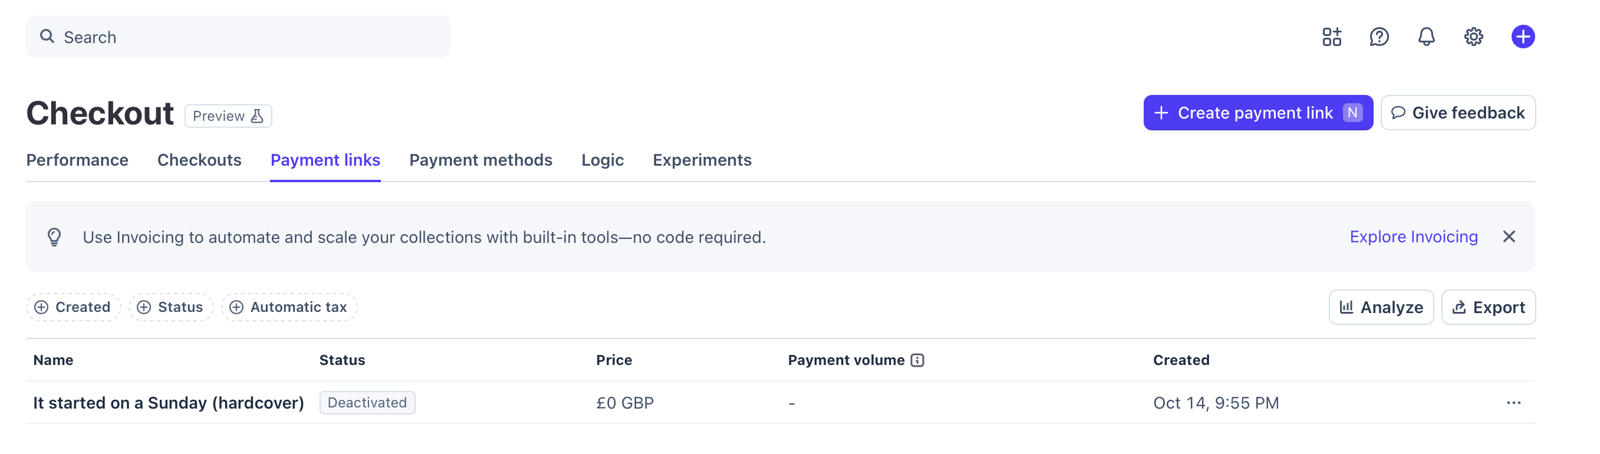
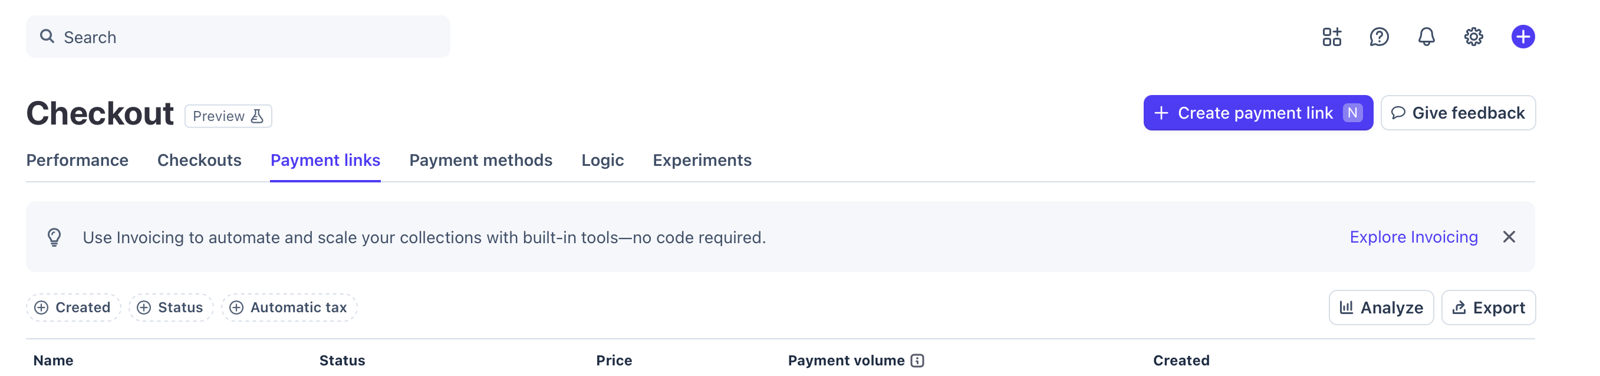
Guide: fixes from a beginner walkthrough (terms page without a website, Route B spine, stop manual orders after go-live, opening the code file, test-mode product, API version, glossary, VAT figure, PAGE_COUNT, captions; Stripe screenshot cropped above the link row)
Claude-Session: https://claude.ai/code/session_019XLMKsAezSpiud541PPbqQ

diff --git a/site/guides/sell-your-photo-book/index.html b/site/guides/sell-your-photo-book/index.html
@@ -387,8 +387,21 @@ details.menu { display: none; }
 </table>
 <p>Stripe asks for ID and your bank details before it pays you out. In the UK you can sign up as an individual (sole trader). Allow a day for checks.</p>
 
+<h3>Words you'll meet</h3>
+<ul class="gloss">
+<li><b>SKU:</b> the product code for your book at the printer.</li>
+<li><b>Payment Link:</b> a checkout page Stripe makes for one product. You share its address.</li>
+<li><b>Test mode / sandbox:</b> a practice copy of Stripe or Prodigi. Nothing is charged or printed.</li>
+<li><b>API key:</b> a password that lets one service act on your account.</li>
+<li><b>Webhook:</b> a message Stripe sends to a web address when something happens, such as a payment.</li>
+<li><b>Worker:</b> a small program that runs on Cloudflare and answers those messages.</li>
+<li><b>Bucket:</b> a folder in Cloudflare's private file storage (R2).</li>
+<li><b>Binding:</b> the setting that tells the Worker which bucket to read.</li>
+<li><b>Secret:</b> a setting Cloudflare stores encrypted, for keys and passwords.</li>
+</ul>
+
 <h2 id="price">3. Set your price</h2>
-<p>Work it out once, on paper, before anything else:</p>
+<p>Work it out once, on paper. You need the printing price first: do A1 steps 1 to 5 to see it.</p>
 <div class="sum">
 <p><span>Printing (Prodigi's price for your page count)</span><b>P</b></p>
 <p><span>Prodigi's delivery to your buyer</span><b>D</b></p>
@@ -400,7 +413,7 @@ details.menu { display: none; }
 <ul>
 <li>Get real numbers. In Prodigi, set up your book (section 5, A1) and look at the price it shows for your page count and your buyer's country.</li>
 <li>Premium UK cards (many reward and business cards) cost 2.8% + 20p, and cards from outside the UK cost more. Leave room for that, and check Stripe's pricing page.</li>
-<li>If you're not VAT registered, don't add VAT. You only need to register when your turnover goes over the VAT threshold.</li>
+<li>If you're not VAT registered, don't add VAT. You only need to register when your turnover goes over the VAT threshold (£90,000 a year).</li>
 <li>Delivery to other countries costs more, and some countries charge import tax. Start with your own country.</li>
 </ul>
 
@@ -420,7 +433,7 @@ details.menu { display: none; }
 <li>Save the book as a product (or save the order details) so you can reuse it for each order.</li>
 <li>Put in your own address and order this one as your proof.</li>
 </ol>
-<figure class="fig"><img src="/images/guide/prodigi-order.png" width="1600" height="969" alt="A photo book order in the Prodigi dashboard, showing the product code BOOK-FE-A4-L-HARD-G and the spine text, font, size and colours." loading="lazy"><figcaption>My proof order in Prodigi: the product code (SKU) and the spine settings. Order number and name hidden.</figcaption></figure>
+<figure class="fig"><img src="/images/guide/prodigi-order.png" width="1600" height="969" alt="A finished photo book order in the Prodigi dashboard, showing the product code BOOK-FE-A4-L-HARD-G and the spine text, font, size and colours." loading="lazy"><figcaption>What your order looks like in Prodigi after you've placed it: my proof, with the product code (SKU) and the spine settings. Order number and name hidden.</figcaption></figure>
 
 <h3>A2. Make the Stripe Payment Link</h3>
 <ol class="steps">
@@ -429,42 +442,43 @@ details.menu { display: none; }
 <li>Turn on <b>Collect customer addresses</b>, choose <b>Billing and shipping addresses</b>, and allow only the countries you deliver to.</li>
 <li>Add a <b>shipping rate</b> with your delivery price and the delivery time (Prodigi's time plus a few days).</li>
 <li>Turn on <b>Require customers to provide a phone number</b>. Couriers sometimes need it.</li>
-<li>Turn on <b>Require customers to accept your terms of service</b>. Stripe asks for your terms page link in your public business details first (see section 7).</li>
+<li>Turn on <b>Require customers to accept your terms of service</b>. Stripe asks for your terms page address first: <b>Settings</b>, <b>Business</b>, <b>Public details</b>, <b>Terms of service</b>. What goes on it is in section 7. No website? Make a free page on Google Sites or Notion, publish it, and use its address.</li>
 <li>Optional: add a custom field, a dropdown asking "Send me news about new books?" with Yes and No. Only email people who said yes.</li>
 <li>Create the link. Copy it. That's your Buy button.</li>
 </ol>
 <figure class="fig"><img src="/images/guide/stripe-search.png" width="1200" height="284" alt="Stripe dashboard search for payment links, showing Checkout, Payment links." loading="lazy"><figcaption>Search the Stripe dashboard for "payment links".</figcaption></figure>
-<figure class="fig"><img src="/images/guide/stripe-payment-links.png" width="1600" height="454" alt="The Payment links tab in Stripe Checkout, with the Create payment link button top right." loading="lazy"><figcaption>Payment links live under Checkout. Click Create payment link, top right.</figcaption></figure>
+<figure class="fig"><img src="/images/guide/stripe-payment-links.png" width="1600" height="376" alt="The Payment links tab in Stripe Checkout, with the Create payment link button top right." loading="lazy"><figcaption>Payment links are under Checkout. Click Create payment link, top right.</figcaption></figure>
 <p class="note">Stripe moves menus around now and then. If a name here doesn't match, search for it in the dashboard's search bar.</p>
 
 <h3>A3. Put the Buy button on your website</h3>
-<p>Make a button or a plain link that opens the Payment Link. In Squarespace, Wix or WordPress, add a button block and paste the link. No website yet? Put the link in your Instagram bio or your email signature. It works on its own.</p>
+<p>Make a button or a plain link that opens the Payment Link (the address starting <code>https://buy.stripe.com/</code>). In Squarespace, Wix or WordPress, add a button block and paste the link. No website yet? Put the link in your Instagram bio or your email signature. It works on its own.</p>
 
 <h3>A4. Test it</h3>
 <ol class="steps">
-<li>In Stripe, switch to <b>test mode</b> (or a sandbox) and make the same Payment Link there.</li>
+<li>Turn on emails for successful payments in Stripe's notification settings (search the dashboard for "communication preferences").</li>
+<li>Switch Stripe to <b>test mode</b> (or a sandbox). Test mode has its own product catalogue, so add the product again, then make the same Payment Link there.</li>
 <li>Buy with the test card <code>4242 4242 4242 4242</code>, any future expiry date, any 3 digits.</li>
 <li>Check you get the payment email, and that the address and phone show on the payment in Stripe.</li>
 </ol>
 
 <h3>A5. Each time someone buys</h3>
 <ol class="steps">
-<li>Stripe emails you about the payment (turn on emails for successful payments in Stripe's notification settings). Open it in the Stripe dashboard.</li>
+<li>Stripe emails you about the payment. Open the payment in the Stripe dashboard.</li>
 <li>In Prodigi, start a new order with your saved book, and copy in the buyer's name, address, phone and email exactly as Stripe shows them.</li>
-<li>If the order form has a reference field, paste the Stripe payment ID there (starts with <code>pi_</code>), so you can match them later. Otherwise write down both order numbers.</li>
+<li>If the order form has a reference field, paste the Stripe payment ID there (it starts with <code>pi_</code> and is on the payment's page in Stripe), so you can match them later. Otherwise write down both order numbers.</li>
 <li>Submit. Prodigi charges your card and prints.</li>
 </ol>
 <p>Do it the same day if you can. Your delivery time starts when the buyer pays.</p>
 
 <h2 id="route-b">6. Route B: automatic orders</h2>
 <p>Same Payment Link as Route A. The difference: when someone pays, Stripe sends a message to a small program on Cloudflare, called a Worker. The Worker checks the message is real, asks Stripe for the address, and places the Prodigi order. You do nothing.</p>
-<p>You'll copy and paste one file of code. You don't need to understand it. It's about 150 lines and most parts have a comment in plain English. <a href="/guides/sell-your-photo-book/worker-template.js" download>Download the Worker code</a>.</p>
+<p>You'll copy and paste one file of code. You don't need to understand it. It's about 150 lines and most parts have a comment in plain English. <a href="/guides/sell-your-photo-book/worker-template.js" download>Download the Worker code</a>. Don't double-click the file. Right-click it and open it with TextEdit (Mac) or Notepad (Windows), then press Cmd+A or Ctrl+A to select everything, and copy.</p>
 <p class="note">Do every step below in test mode first: Stripe's test mode and Prodigi's sandbox. Nothing gets printed or charged. Switch to live only at B8.</p>
 
 <h3>B1. Make a Prodigi sandbox key</h3>
 <ol class="steps">
 <li>Prodigi has a separate sandbox dashboard for testing: <code>sandbox-beta-dashboard.pwinty.com</code>. Signing up on Prodigi's normal dashboard sets up both. If you can't log in to the sandbox, ask Prodigi's support.</li>
-<li>In the sandbox dashboard, find the API key in the settings (look for <b>API</b> or <b>Integrations</b>). Copy it into a password manager.</li>
+<li>In the sandbox dashboard, find the API key in the settings (look for <b>API</b> or <b>Integrations</b>). Copy it into a password manager (for example Apple Passwords, Bitwarden or 1Password).</li>
 <li>Note the product code (SKU) for your book. It's on the product's page in Prodigi, and looks like <code>BOOK-FE-A4-L-HARD-G</code>.</li>
 </ol>
 
@@ -473,7 +487,7 @@ details.menu { display: none; }
 <li>In Cloudflare, open <b>R2 Object Storage</b>. Turn it on (it asks for a card; up to 10 GB is free).</li>
 <li><b>Create bucket</b>. Give it any name. Leave public access <b>off</b>.</li>
 <li>Upload your book PDF. Give it a simple name with no spaces, like <code>book.pdf</code>.</li>
-<li>Optional: a spine file. If you leave it out, the spine is plain. If you want text on it, make a PDF exactly the spine's width (Prodigi shows it for your page count) by 210 mm tall, and upload it as <code>spine.pdf</code>.</li>
+<li>A spine file. Route B doesn't use the spine text you typed in A1. Without a spine file, buyers get a plain spine that doesn't match your proof. To get text on it, ask Prodigi's support for the spine width at your page count, make a PDF that wide by 210 mm tall in the app you made the book in, and upload it as <code>spine.pdf</code>.</li>
 </ol>
 <p class="note">A 160-page A4 book at 300 ppi is usually around 200 MB, and the dashboard upload took mine. If the upload fails for a bigger file, export the PDF again with a lower JPEG quality.</p>
 
@@ -483,7 +497,7 @@ details.menu { display: none; }
 <li>Click <b>Edit code</b>. Delete everything in the editor. Paste the whole Worker file. Click <b>Deploy</b>.</li>
 <li>Note your Worker's address. It ends in <code>.workers.dev</code>.</li>
 </ol>
-<figure class="fig"><img src="/images/guide/worker-editor-illustration.png" width="1600" height="900" alt="An illustration of a Worker code editor with the Worker file pasted in and a Deploy button top right." loading="lazy"><figcaption>An illustration of the Worker editor with the code pasted in. Cloudflare's editor looks a little different.</figcaption></figure>
+<figure class="fig"><img src="/images/guide/worker-editor-illustration.png" width="1600" height="900" alt="An illustration of a Worker code editor with the Worker file pasted in and a Deploy button top right." loading="lazy"><figcaption>An illustration of the Worker editor with the code pasted in. Lines 4 to 26 are hidden here: paste the whole file. Cloudflare's editor looks a little different.</figcaption></figure>
 
 <h3>B4. Connect the storage</h3>
 <ol class="steps">
@@ -498,6 +512,7 @@ details.menu { display: none; }
 <li>Go to <b>Webhooks</b> and click <b>Create an event destination</b>. Choose <b>Your account</b>, then the <b>Snapshot</b> payload. Not Thin, even though Stripe marks Thin as recommended: the Worker only understands Snapshot.</li>
 <li>Tick two events: <code>checkout.session.completed</code> and <code>checkout.session.async_payment_succeeded</code>.</li>
 <li>Choose <b>Webhook endpoint</b>. URL: your Worker address followed by <code>/stripe-webhook</code>, for example <code>https://book-shop.yourname.workers.dev/stripe-webhook</code>.</li>
+<li>If Stripe asks for an API version, leave the one it picks.</li>
 <li>Save, then reveal the <b>signing secret</b> (starts <code>whsec_</code>) and copy it.</li>
 <li>Open your test Payment Link in the Stripe dashboard and copy its ID from the address bar (starts <code>plink_</code>).</li>
 </ol>
@@ -513,7 +528,7 @@ details.menu { display: none; }
 <tr><td><code>FILE_SECRET</code></td><td>Secret</td><td>a long random password (40+ characters) from a password manager</td></tr>
 <tr><td><code>PRODIGI_BASE</code></td><td>Text</td><td><code>https://api.sandbox.prodigi.com/v4.0</code></td></tr>
 <tr><td><code>PRODIGI_SKU</code></td><td>Text</td><td>your book's product code</td></tr>
-<tr><td><code>PAGE_COUNT</code></td><td>Text</td><td>pages in your PDF, covers included</td></tr>
+<tr><td><code>PAGE_COUNT</code></td><td>Text</td><td>the number of pages in your PDF file, front and back cover included (mine is 164)</td></tr>
 <tr><td><code>BOOK_FILE</code></td><td>Text</td><td><code>book.pdf</code> (the name in R2)</td></tr>
 <tr><td><code>SPINE_FILE</code></td><td>Text</td><td>optional: <code>spine.pdf</code></td></tr>
 <tr><td><code>PAYMENT_LINK_ID</code></td><td>Text</td><td>the <code>plink_</code> ID from B5. Required: without it, no order prints, so a sale of anything else on your Stripe account can never print a book.</td></tr>
@@ -524,7 +539,7 @@ details.menu { display: none; }
 <h3>B7. Test it end to end</h3>
 <ol class="steps">
 <li>Open your <b>test</b> Payment Link and buy with <code>4242 4242 4242 4242</code>. Use a real-looking address in your delivery country.</li>
-<li>In Stripe, open <b>Developers</b>, <b>Webhooks</b>, your endpoint. The delivery should show <b>200</b>.</li>
+<li>In Stripe, open <b>Webhooks</b> and your destination. The delivery should show <b>200</b>, which means it worked.</li>
 <li>In Prodigi's sandbox dashboard, the order should be there with the buyer's address and no issues.</li>
 <li>Back in Stripe, the payment should show <code>prodigi_order</code> in its metadata.</li>
 <li>From the webhook page, resend the same event. Prodigi should still have one order, not two.</li>
@@ -532,7 +547,7 @@ details.menu { display: none; }
 <p><b>If it fails</b>, the webhook page shows the answer the Worker gave:</p>
 <ul>
 <li><b>400 bad signature</b>: the <code>whsec_</code> secret is wrong, or it's from a different endpoint or mode.</li>
-<li><b>500</b>: open the Worker's <b>Logs</b> in Cloudflare. The line starting <code>FAILED</code> says why. Usual causes: a key from the wrong mode, a wrong SKU or page count, or the R2 binding not named <code>BOOK</code>.</li>
+<li><b>500</b>: open the Worker's <b>Logs</b> in Cloudflare. The line starting <code>FAILED</code> says why. If Logs is empty, turn on logs in the Worker's <b>Settings</b> (Observability), then resend the event. Usual causes: a key from the wrong mode, a wrong SKU or page count, or the R2 binding not named <code>BOOK</code>.</li>
 <li><b>200 "not the book"</b>: <code>PAYMENT_LINK_ID</code> doesn't match the link you bought from.</li>
 <li><b>200 "ignored"</b>: the webhook sends the wrong events, or uses the Thin payload. Make a new destination with Snapshot (B5).</li>
 <li><b>200 "waiting for payment"</b>: the payment hasn't cleared yet (some bank payments take a few days). The order is placed when it does.</li>
@@ -540,11 +555,12 @@ details.menu { display: none; }
 
 <h3>B8. Go live</h3>
 <ol class="steps">
-<li>Switch Stripe to live mode. Make the live product, Payment Link, restricted key (<code>rk_live_</code>) and webhook exactly as in test mode.</li>
+<li>Switch Stripe to live mode. Use the live Payment Link you made in A2. Make a live restricted key (<code>rk_live_</code>) and a live webhook destination exactly as in test mode (B5).</li>
 <li>Get your live Prodigi API key from the normal dashboard (not the sandbox), with your card added.</li>
-<li>In the Worker, replace three secrets with the live ones: <code>STRIPE_SECRET_KEY</code>, <code>STRIPE_WEBHOOK_SECRET</code> and <code>PRODIGI_API_KEY</code>. <code>FILE_SECRET</code> stays the same. Change <code>PRODIGI_BASE</code> to <code>https://api.prodigi.com/v4.0</code> and <code>PAYMENT_LINK_ID</code> to the live link.</li>
+<li>In the Worker, replace three secrets with the live ones: <code>STRIPE_SECRET_KEY</code>, <code>STRIPE_WEBHOOK_SECRET</code> and <code>PRODIGI_API_KEY</code>. <code>FILE_SECRET</code> stays the same. Change <code>PRODIGI_BASE</code> to <code>https://api.prodigi.com/v4.0</code>. Open your live Payment Link in Stripe and copy its <code>plink_</code> ID from the address bar into <code>PAYMENT_LINK_ID</code>. Not the buy.stripe.com address.</li>
 <li>Put the live Payment Link on your website.</li>
-<li>Buy one copy yourself with a real card. That's your final test and your proof copy in one.</li>
+<li>Buy one copy yourself with a real card. That's your final test, and the book shows you the spine buyers will get.</li>
+<li>From now on, don't place orders in Prodigi by hand. The Worker does it. Stripe's payment emails still arrive, for your records.</li>
 </ol>
 <p class="note">If the Worker or Prodigi is down when someone pays, the payment still goes through. In live mode Stripe resends the message for up to 3 days and emails you if it keeps failing (in test mode it only tries a few times). The order can't be printed twice.</p>
 <p class="note">Prodigi downloads your files after it accepts an order. If a download fails, the order shows an issue in Prodigi's dashboard rather than in Stripe. Keep Prodigi's emails switched on and look at new orders now and then.</p>
@@ -552,10 +568,10 @@ details.menu { display: none; }
 <h2 id="legal">7. The legal minimum (UK)</h2>
 <p class="note">This is what I did, not legal advice. Check gov.uk for your own case.</p>
 <ul>
-<li><b>A terms page.</b> Before someone buys, they must see who you are, a geographical address (a business or virtual office address is fine if you'd rather not publish your home), an email, the total price with delivery, delivery times and their right to cancel. Mine is at <a href="/terms/">davidslv.photography/terms</a>; read it as an example.</li>
+<li><b>A terms page.</b> Before someone buys, they must see who you are, a geographical address (a business or virtual office address is fine if you'd rather not publish your home), an email, the total price with delivery, delivery times and their right to cancel. <a href="/terms/">My terms page</a> is an example you can read.</li>
 <li><b>14 days to cancel.</b> Buyers of a printed book can cancel for any reason within 14 days, starting the day after delivery. You refund the book and the standard delivery within 14 days of getting it back, or of proof they've sent it.</li>
 <li><b>Faulty items.</b> A damaged or misprinted book gets a refund or replacement. Ask Prodigi's support about misprints and damage in transit, with photos and the order number.</li>
-<li><b>Tax.</b> Tell HMRC you're self-employed if your sales, before costs, go over £1,000 in a tax year. VAT only after your turnover passes the VAT threshold.</li>
+<li><b>Tax.</b> Tell HMRC you're self-employed if your sales, before costs, go over £1,000 in a tax year. VAT only after your turnover passes £90,000 a year.</li>
 <li><b>Customer data.</b> Use buyers' details to deliver their order. Say on your terms page what you collect and that the printer gets the delivery address. Email them news only if they said yes. The ICO's website has a quick check on whether you need to pay its data protection fee.</li>
 </ul>
 

diff --git a/tools/guide_body.html b/tools/guide_body.html
@@ -52,8 +52,21 @@
 </table>
 <p>Stripe asks for ID and your bank details before it pays you out. In the UK you can sign up as an individual (sole trader). Allow a day for checks.</p>
 
+<h3>Words you'll meet</h3>
+<ul class="gloss">
+<li><b>SKU:</b> the product code for your book at the printer.</li>
+<li><b>Payment Link:</b> a checkout page Stripe makes for one product. You share its address.</li>
+<li><b>Test mode / sandbox:</b> a practice copy of Stripe or Prodigi. Nothing is charged or printed.</li>
+<li><b>API key:</b> a password that lets one service act on your account.</li>
+<li><b>Webhook:</b> a message Stripe sends to a web address when something happens, such as a payment.</li>
+<li><b>Worker:</b> a small program that runs on Cloudflare and answers those messages.</li>
+<li><b>Bucket:</b> a folder in Cloudflare's private file storage (R2).</li>
+<li><b>Binding:</b> the setting that tells the Worker which bucket to read.</li>
+<li><b>Secret:</b> a setting Cloudflare stores encrypted, for keys and passwords.</li>
+</ul>
+
 <h2 id="price">3. Set your price</h2>
-<p>Work it out once, on paper, before anything else:</p>
+<p>Work it out once, on paper. You need the printing price first: do A1 steps 1 to 5 to see it.</p>
 <div class="sum">
 <p><span>Printing (Prodigi's price for your page count)</span><b>P</b></p>
 <p><span>Prodigi's delivery to your buyer</span><b>D</b></p>
@@ -65,7 +78,7 @@
 <ul>
 <li>Get real numbers. In Prodigi, set up your book (section 5, A1) and look at the price it shows for your page count and your buyer's country.</li>
 <li>Premium UK cards (many reward and business cards) cost 2.8% + 20p, and cards from outside the UK cost more. Leave room for that, and check Stripe's pricing page.</li>
-<li>If you're not VAT registered, don't add VAT. You only need to register when your turnover goes over the VAT threshold.</li>
+<li>If you're not VAT registered, don't add VAT. You only need to register when your turnover goes over the VAT threshold (£90,000 a year).</li>
 <li>Delivery to other countries costs more, and some countries charge import tax. Start with your own country.</li>
 </ul>
 
@@ -85,7 +98,7 @@
 <li>Save the book as a product (or save the order details) so you can reuse it for each order.</li>
 <li>Put in your own address and order this one as your proof.</li>
 </ol>
-<figure class="fig"><img src="/images/guide/prodigi-order.png" width="1600" height="969" alt="A photo book order in the Prodigi dashboard, showing the product code BOOK-FE-A4-L-HARD-G and the spine text, font, size and colours." loading="lazy"><figcaption>My proof order in Prodigi: the product code (SKU) and the spine settings. Order number and name hidden.</figcaption></figure>
+<figure class="fig"><img src="/images/guide/prodigi-order.png" width="1600" height="969" alt="A finished photo book order in the Prodigi dashboard, showing the product code BOOK-FE-A4-L-HARD-G and the spine text, font, size and colours." loading="lazy"><figcaption>What your order looks like in Prodigi after you've placed it: my proof, with the product code (SKU) and the spine settings. Order number and name hidden.</figcaption></figure>
 
 <h3>A2. Make the Stripe Payment Link</h3>
 <ol class="steps">
@@ -94,42 +107,43 @@
 <li>Turn on <b>Collect customer addresses</b>, choose <b>Billing and shipping addresses</b>, and allow only the countries you deliver to.</li>
 <li>Add a <b>shipping rate</b> with your delivery price and the delivery time (Prodigi's time plus a few days).</li>
 <li>Turn on <b>Require customers to provide a phone number</b>. Couriers sometimes need it.</li>
-<li>Turn on <b>Require customers to accept your terms of service</b>. Stripe asks for your terms page link in your public business details first (see section 7).</li>
+<li>Turn on <b>Require customers to accept your terms of service</b>. Stripe asks for your terms page address first: <b>Settings</b>, <b>Business</b>, <b>Public details</b>, <b>Terms of service</b>. What goes on it is in section 7. No website? Make a free page on Google Sites or Notion, publish it, and use its address.</li>
 <li>Optional: add a custom field, a dropdown asking "Send me news about new books?" with Yes and No. Only email people who said yes.</li>
 <li>Create the link. Copy it. That's your Buy button.</li>
 </ol>
 <figure class="fig"><img src="/images/guide/stripe-search.png" width="1200" height="284" alt="Stripe dashboard search for payment links, showing Checkout, Payment links." loading="lazy"><figcaption>Search the Stripe dashboard for "payment links".</figcaption></figure>
-<figure class="fig"><img src="/images/guide/stripe-payment-links.png" width="1600" height="454" alt="The Payment links tab in Stripe Checkout, with the Create payment link button top right." loading="lazy"><figcaption>Payment links live under Checkout. Click Create payment link, top right.</figcaption></figure>
+<figure class="fig"><img src="/images/guide/stripe-payment-links.png" width="1600" height="376" alt="The Payment links tab in Stripe Checkout, with the Create payment link button top right." loading="lazy"><figcaption>Payment links are under Checkout. Click Create payment link, top right.</figcaption></figure>
 <p class="note">Stripe moves menus around now and then. If a name here doesn't match, search for it in the dashboard's search bar.</p>
 
 <h3>A3. Put the Buy button on your website</h3>
-<p>Make a button or a plain link that opens the Payment Link. In Squarespace, Wix or WordPress, add a button block and paste the link. No website yet? Put the link in your Instagram bio or your email signature. It works on its own.</p>
+<p>Make a button or a plain link that opens the Payment Link (the address starting <code>https://buy.stripe.com/</code>). In Squarespace, Wix or WordPress, add a button block and paste the link. No website yet? Put the link in your Instagram bio or your email signature. It works on its own.</p>
 
 <h3>A4. Test it</h3>
 <ol class="steps">
-<li>In Stripe, switch to <b>test mode</b> (or a sandbox) and make the same Payment Link there.</li>
+<li>Turn on emails for successful payments in Stripe's notification settings (search the dashboard for "communication preferences").</li>
+<li>Switch Stripe to <b>test mode</b> (or a sandbox). Test mode has its own product catalogue, so add the product again, then make the same Payment Link there.</li>
 <li>Buy with the test card <code>4242 4242 4242 4242</code>, any future expiry date, any 3 digits.</li>
 <li>Check you get the payment email, and that the address and phone show on the payment in Stripe.</li>
 </ol>
 
 <h3>A5. Each time someone buys</h3>
 <ol class="steps">
-<li>Stripe emails you about the payment (turn on emails for successful payments in Stripe's notification settings). Open it in the Stripe dashboard.</li>
+<li>Stripe emails you about the payment. Open the payment in the Stripe dashboard.</li>
 <li>In Prodigi, start a new order with your saved book, and copy in the buyer's name, address, phone and email exactly as Stripe shows them.</li>
-<li>If the order form has a reference field, paste the Stripe payment ID there (starts with <code>pi_</code>), so you can match them later. Otherwise write down both order numbers.</li>
+<li>If the order form has a reference field, paste the Stripe payment ID there (it starts with <code>pi_</code> and is on the payment's page in Stripe), so you can match them later. Otherwise write down both order numbers.</li>
 <li>Submit. Prodigi charges your card and prints.</li>
 </ol>
 <p>Do it the same day if you can. Your delivery time starts when the buyer pays.</p>
 
 <h2 id="route-b">6. Route B: automatic orders</h2>
 <p>Same Payment Link as Route A. The difference: when someone pays, Stripe sends a message to a small program on Cloudflare, called a Worker. The Worker checks the message is real, asks Stripe for the address, and places the Prodigi order. You do nothing.</p>
-<p>You'll copy and paste one file of code. You don't need to understand it. It's about 150 lines and most parts have a comment in plain English. <a href="/guides/sell-your-photo-book/worker-template.js" download>Download the Worker code</a>.</p>
+<p>You'll copy and paste one file of code. You don't need to understand it. It's about 150 lines and most parts have a comment in plain English. <a href="/guides/sell-your-photo-book/worker-template.js" download>Download the Worker code</a>. Don't double-click the file. Right-click it and open it with TextEdit (Mac) or Notepad (Windows), then press Cmd+A or Ctrl+A to select everything, and copy.</p>
 <p class="note">Do every step below in test mode first: Stripe's test mode and Prodigi's sandbox. Nothing gets printed or charged. Switch to live only at B8.</p>
 
 <h3>B1. Make a Prodigi sandbox key</h3>
 <ol class="steps">
 <li>Prodigi has a separate sandbox dashboard for testing: <code>sandbox-beta-dashboard.pwinty.com</code>. Signing up on Prodigi's normal dashboard sets up both. If you can't log in to the sandbox, ask Prodigi's support.</li>
-<li>In the sandbox dashboard, find the API key in the settings (look for <b>API</b> or <b>Integrations</b>). Copy it into a password manager.</li>
+<li>In the sandbox dashboard, find the API key in the settings (look for <b>API</b> or <b>Integrations</b>). Copy it into a password manager (for example Apple Passwords, Bitwarden or 1Password).</li>
 <li>Note the product code (SKU) for your book. It's on the product's page in Prodigi, and looks like <code>BOOK-FE-A4-L-HARD-G</code>.</li>
 </ol>
 
@@ -138,7 +152,7 @@
 <li>In Cloudflare, open <b>R2 Object Storage</b>. Turn it on (it asks for a card; up to 10 GB is free).</li>
 <li><b>Create bucket</b>. Give it any name. Leave public access <b>off</b>.</li>
 <li>Upload your book PDF. Give it a simple name with no spaces, like <code>book.pdf</code>.</li>
-<li>Optional: a spine file. If you leave it out, the spine is plain. If you want text on it, make a PDF exactly the spine's width (Prodigi shows it for your page count) by 210 mm tall, and upload it as <code>spine.pdf</code>.</li>
+<li>A spine file. Route B doesn't use the spine text you typed in A1. Without a spine file, buyers get a plain spine that doesn't match your proof. To get text on it, ask Prodigi's support for the spine width at your page count, make a PDF that wide by 210 mm tall in the app you made the book in, and upload it as <code>spine.pdf</code>.</li>
 </ol>
 <p class="note">A 160-page A4 book at 300 ppi is usually around 200 MB, and the dashboard upload took mine. If the upload fails for a bigger file, export the PDF again with a lower JPEG quality.</p>
 
@@ -148,7 +162,7 @@
 <li>Click <b>Edit code</b>. Delete everything in the editor. Paste the whole Worker file. Click <b>Deploy</b>.</li>
 <li>Note your Worker's address. It ends in <code>.workers.dev</code>.</li>
 </ol>
-<figure class="fig"><img src="/images/guide/worker-editor-illustration.png" width="1600" height="900" alt="An illustration of a Worker code editor with the Worker file pasted in and a Deploy button top right." loading="lazy"><figcaption>An illustration of the Worker editor with the code pasted in. Cloudflare's editor looks a little different.</figcaption></figure>
+<figure class="fig"><img src="/images/guide/worker-editor-illustration.png" width="1600" height="900" alt="An illustration of a Worker code editor with the Worker file pasted in and a Deploy button top right." loading="lazy"><figcaption>An illustration of the Worker editor with the code pasted in. Lines 4 to 26 are hidden here: paste the whole file. Cloudflare's editor looks a little different.</figcaption></figure>
 
 <h3>B4. Connect the storage</h3>
 <ol class="steps">
@@ -163,6 +177,7 @@
 <li>Go to <b>Webhooks</b> and click <b>Create an event destination</b>. Choose <b>Your account</b>, then the <b>Snapshot</b> payload. Not Thin, even though Stripe marks Thin as recommended: the Worker only understands Snapshot.</li>
 <li>Tick two events: <code>checkout.session.completed</code> and <code>checkout.session.async_payment_succeeded</code>.</li>
 <li>Choose <b>Webhook endpoint</b>. URL: your Worker address followed by <code>/stripe-webhook</code>, for example <code>https://book-shop.yourname.workers.dev/stripe-webhook</code>.</li>
+<li>If Stripe asks for an API version, leave the one it picks.</li>
 <li>Save, then reveal the <b>signing secret</b> (starts <code>whsec_</code>) and copy it.</li>
 <li>Open your test Payment Link in the Stripe dashboard and copy its ID from the address bar (starts <code>plink_</code>).</li>
 </ol>
@@ -178,7 +193,7 @@
 <tr><td><code>FILE_SECRET</code></td><td>Secret</td><td>a long random password (40+ characters) from a password manager</td></tr>
 <tr><td><code>PRODIGI_BASE</code></td><td>Text</td><td><code>https://api.sandbox.prodigi.com/v4.0</code></td></tr>
 <tr><td><code>PRODIGI_SKU</code></td><td>Text</td><td>your book's product code</td></tr>
-<tr><td><code>PAGE_COUNT</code></td><td>Text</td><td>pages in your PDF, covers included</td></tr>
+<tr><td><code>PAGE_COUNT</code></td><td>Text</td><td>the number of pages in your PDF file, front and back cover included (mine is 164)</td></tr>
 <tr><td><code>BOOK_FILE</code></td><td>Text</td><td><code>book.pdf</code> (the name in R2)</td></tr>
 <tr><td><code>SPINE_FILE</code></td><td>Text</td><td>optional: <code>spine.pdf</code></td></tr>
 <tr><td><code>PAYMENT_LINK_ID</code></td><td>Text</td><td>the <code>plink_</code> ID from B5. Required: without it, no order prints, so a sale of anything else on your Stripe account can never print a book.</td></tr>
@@ -189,7 +204,7 @@
 <h3>B7. Test it end to end</h3>
 <ol class="steps">
 <li>Open your <b>test</b> Payment Link and buy with <code>4242 4242 4242 4242</code>. Use a real-looking address in your delivery country.</li>
-<li>In Stripe, open <b>Developers</b>, <b>Webhooks</b>, your endpoint. The delivery should show <b>200</b>.</li>
+<li>In Stripe, open <b>Webhooks</b> and your destination. The delivery should show <b>200</b>, which means it worked.</li>
 <li>In Prodigi's sandbox dashboard, the order should be there with the buyer's address and no issues.</li>
 <li>Back in Stripe, the payment should show <code>prodigi_order</code> in its metadata.</li>
 <li>From the webhook page, resend the same event. Prodigi should still have one order, not two.</li>
@@ -197,7 +212,7 @@
 <p><b>If it fails</b>, the webhook page shows the answer the Worker gave:</p>
 <ul>
 <li><b>400 bad signature</b>: the <code>whsec_</code> secret is wrong, or it's from a different endpoint or mode.</li>
-<li><b>500</b>: open the Worker's <b>Logs</b> in Cloudflare. The line starting <code>FAILED</code> says why. Usual causes: a key from the wrong mode, a wrong SKU or page count, or the R2 binding not named <code>BOOK</code>.</li>
+<li><b>500</b>: open the Worker's <b>Logs</b> in Cloudflare. The line starting <code>FAILED</code> says why. If Logs is empty, turn on logs in the Worker's <b>Settings</b> (Observability), then resend the event. Usual causes: a key from the wrong mode, a wrong SKU or page count, or the R2 binding not named <code>BOOK</code>.</li>
 <li><b>200 "not the book"</b>: <code>PAYMENT_LINK_ID</code> doesn't match the link you bought from.</li>
 <li><b>200 "ignored"</b>: the webhook sends the wrong events, or uses the Thin payload. Make a new destination with Snapshot (B5).</li>
 <li><b>200 "waiting for payment"</b>: the payment hasn't cleared yet (some bank payments take a few days). The order is placed when it does.</li>
@@ -205,11 +220,12 @@
 
 <h3>B8. Go live</h3>
 <ol class="steps">
-<li>Switch Stripe to live mode. Make the live product, Payment Link, restricted key (<code>rk_live_</code>) and webhook exactly as in test mode.</li>
+<li>Switch Stripe to live mode. Use the live Payment Link you made in A2. Make a live restricted key (<code>rk_live_</code>) and a live webhook destination exactly as in test mode (B5).</li>
 <li>Get your live Prodigi API key from the normal dashboard (not the sandbox), with your card added.</li>
-<li>In the Worker, replace three secrets with the live ones: <code>STRIPE_SECRET_KEY</code>, <code>STRIPE_WEBHOOK_SECRET</code> and <code>PRODIGI_API_KEY</code>. <code>FILE_SECRET</code> stays the same. Change <code>PRODIGI_BASE</code> to <code>https://api.prodigi.com/v4.0</code> and <code>PAYMENT_LINK_ID</code> to the live link.</li>
+<li>In the Worker, replace three secrets with the live ones: <code>STRIPE_SECRET_KEY</code>, <code>STRIPE_WEBHOOK_SECRET</code> and <code>PRODIGI_API_KEY</code>. <code>FILE_SECRET</code> stays the same. Change <code>PRODIGI_BASE</code> to <code>https://api.prodigi.com/v4.0</code>. Open your live Payment Link in Stripe and copy its <code>plink_</code> ID from the address bar into <code>PAYMENT_LINK_ID</code>. Not the buy.stripe.com address.</li>
 <li>Put the live Payment Link on your website.</li>
-<li>Buy one copy yourself with a real card. That's your final test and your proof copy in one.</li>
+<li>Buy one copy yourself with a real card. That's your final test, and the book shows you the spine buyers will get.</li>
+<li>From now on, don't place orders in Prodigi by hand. The Worker does it. Stripe's payment emails still arrive, for your records.</li>
 </ol>
 <p class="note">If the Worker or Prodigi is down when someone pays, the payment still goes through. In live mode Stripe resends the message for up to 3 days and emails you if it keeps failing (in test mode it only tries a few times). The order can't be printed twice.</p>
 <p class="note">Prodigi downloads your files after it accepts an order. If a download fails, the order shows an issue in Prodigi's dashboard rather than in Stripe. Keep Prodigi's emails switched on and look at new orders now and then.</p>
@@ -217,10 +233,10 @@
 <h2 id="legal">7. The legal minimum (UK)</h2>
 <p class="note">This is what I did, not legal advice. Check gov.uk for your own case.</p>
 <ul>
-<li><b>A terms page.</b> Before someone buys, they must see who you are, a geographical address (a business or virtual office address is fine if you'd rather not publish your home), an email, the total price with delivery, delivery times and their right to cancel. Mine is at <a href="/terms/">davidslv.photography/terms</a>; read it as an example.</li>
+<li><b>A terms page.</b> Before someone buys, they must see who you are, a geographical address (a business or virtual office address is fine if you'd rather not publish your home), an email, the total price with delivery, delivery times and their right to cancel. <a href="/terms/">My terms page</a> is an example you can read.</li>
 <li><b>14 days to cancel.</b> Buyers of a printed book can cancel for any reason within 14 days, starting the day after delivery. You refund the book and the standard delivery within 14 days of getting it back, or of proof they've sent it.</li>
 <li><b>Faulty items.</b> A damaged or misprinted book gets a refund or replacement. Ask Prodigi's support about misprints and damage in transit, with photos and the order number.</li>
-<li><b>Tax.</b> Tell HMRC you're self-employed if your sales, before costs, go over £1,000 in a tax year. VAT only after your turnover passes the VAT threshold.</li>
+<li><b>Tax.</b> Tell HMRC you're self-employed if your sales, before costs, go over £1,000 in a tax year. VAT only after your turnover passes £90,000 a year.</li>
 <li><b>Customer data.</b> Use buyers' details to deliver their order. Say on your terms page what you collect and that the printer gets the delivery address. Email them news only if they said yes. The ICO's website has a quick check on whether you need to pay its data protection fee.</li>
 </ul>
 
